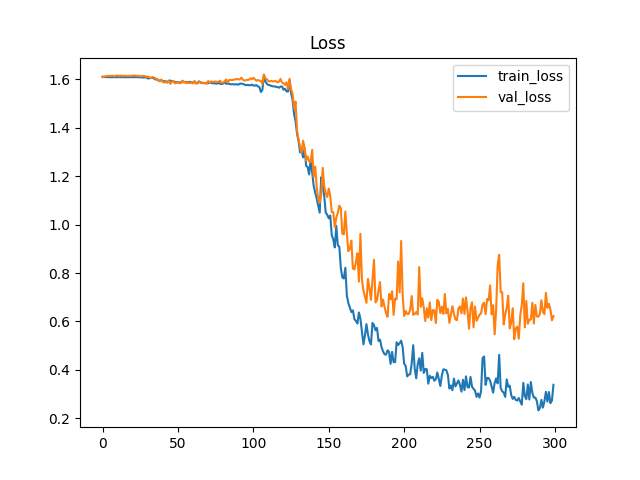
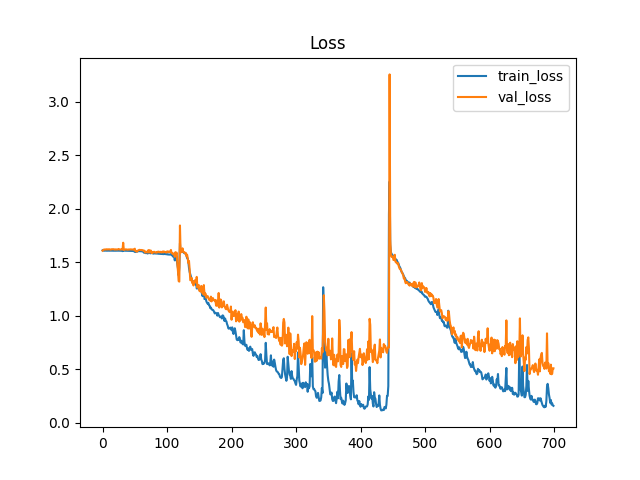
fix: all feat

diff --git a/train.py b/train.py
@@ -32,7 +32,7 @@ for class_folder in os.listdir(data_folder):
             df = df.iloc[:, feature_filter[0]:feature_filter[1]]
             df = (df-df.min())/(df.max()-df.min())
             data_array = df.to_numpy()
-            result_array = np.zeros((100, 3))
+            result_array = np.zeros((100, 9))
             result_array[:data_array.shape[0], :] = data_array
             data.append(result_array)
             labels.append(class_label)
@@ -154,7 +154,7 @@ def interference():
     df = df.iloc[:, feature_filter[0]:feature_filter[1]]
     df = (df-df.min())/(df.max()-df.min())
     data_array = df.to_numpy()
-    result_array = np.zeros((100, 3))
+    result_array = np.zeros((100, 9))
     result_array[:data_array.shape[0], :] = data_array
     data = torch.Tensor(result_array).unsqueeze(0).to(device)
     output = model(data)

diff --git a/config.py b/config.py
@@ -1,8 +1,9 @@
-feature_filter = (0, 3)  # use only gyro
+# feature_filter = (0, 3)  # use only gyro
 # feature_filter = (3, 6)  # use only magnetometer
-# feature_filter = (6, 9)  # use only accelerometer
+#feature_filter = (6, 9)  # use only accelerometer
+feature_filter = (0, 9)
 batch_size = 32
 split_ratio = 0.8
-epochs = 300
+epochs = 500
 device = 'cpu'
 data_folder = 'data3'
